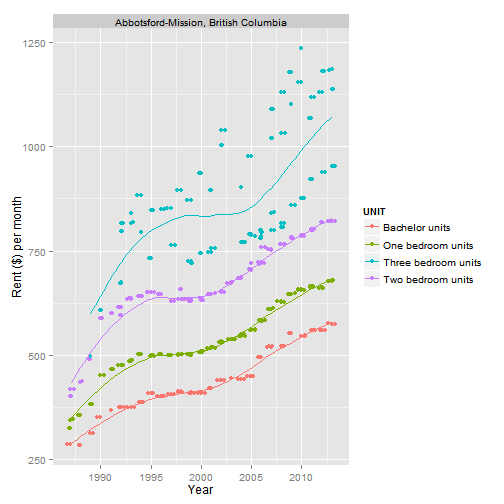
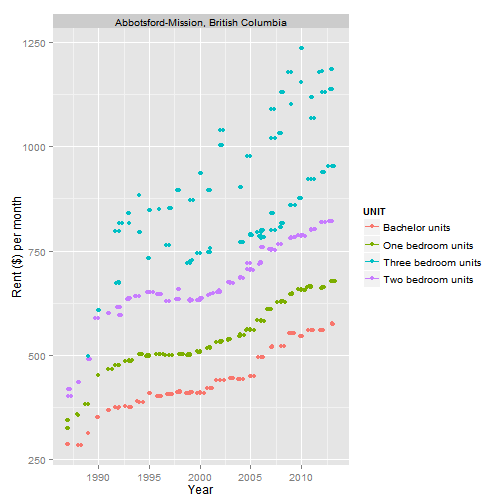
Final submission

diff --git a/loueh_pitch-rpubs.html b/loueh_pitch-rpubs.html
@@ -752,7 +752,7 @@ hljs.initHighlightingOnLoad();
 <h1>title: LOU-EH?</h1><p></p>
 
 <div class="column column1 slideContent" >
-<p><strong><em>Canadian Rental Apartement Comparasion</em></strong><br/>
+<p><strong><em>Canadian Rental Apartement Analysis Tool</em></strong><br/>
[1 lines of base64/hex data omitted]
 
 <p><em>[loo-ey] combination of the french verb &#39;loue&#39; (to rent) and the canadian expression &#39;eh?&#39;</em><em>[1]</em>*  </p>
@@ -765,6 +765,8 @@ hljs.initHighlightingOnLoad();
 
 <p>author: Ryan Eaton<br/>
 date: 2014-08-13   </p>
+
+<p style="position:absolute;bottom:10px;right:10px"> 1 of 5  </p>
 
 </div>
 
@@ -783,20 +785,22 @@ date: 2014-08-13   </p>
 <p><strong>Introduction:</strong><br/>
 Renting an apartment can represent a sizable portion of ones living expenses<strong>[2]</strong>. I have developed a shiny<strong>[3]</strong> application designed to allow users to compare rental costs via a scatterplot for various Canadian cities.  </p>
 
-<p>Additionnaly the application allows trend lines and certain filters to be added. and will allow the user to link directly to chosen city maps via google maps<strong>[4]</strong>.  Links to various social media options are provided to share the application. </p>
+<p>Additionnaly the application allows predictions to be generated for rental costs in future years. The user can also quickly find city maps via google maps<strong>[4]</strong>.  Links to various social media options are provided to share the application. </p>
+
+<p style="position:absolute;bottom:10px;right:10px"> 2 of 5  </p>
 
 </div>
 
 </section>
 <section data-transition="linear" data-transition-speed="default">
-<h3> </h3>
-<div class="column column1 slideContent" style="width: 13%;" >
+
+<div class="column column1 slideContent noTitle" style="width: 13%;" >
[1 lines of base64/hex data omitted]
 
 
 </div>
 
-<div class="column column2 slideContent" style="width: 83%;" >
+<div class="column column2 slideContent noTitle" style="width: 83%;" >
 
 
 <p><strong>Data:</strong> </p>
@@ -817,6 +821,8 @@ dim(d)
 <li><p>Cities with fewer that 50 data points and rental costs lower than 100$ were removed </p></li>
 </ul>
 
+<p style="position:absolute;bottom:10px;right:10px"> 3 of 5  </p>
+
 </div>
 
 </section>
@@ -835,7 +841,9 @@ dim(d)
 
 <hr/>
 
[2 lines of base64/hex data omitted]
+
+<p style="position:absolute;bottom:10px;right:10px"> 4 of 5  </p>
 
 </div>
 
@@ -861,6 +869,8 @@ dim(d)
 3.<a href="http://shiny.rstudio.com/">http://shiny.rstudio.com/</a><br/>
 4.<a href="http://en.wikipedia.org/wiki/Google_Maps">http://en.wikipedia.org/wiki/Google_Maps</a><br/>
 5.<a href="http://data.gc.ca">http://data.gc.ca</a>  </p>
+
+<p style="position:absolute;bottom:10px;right:10px"> 5 of 5  </p>
 
 </div>
 

diff --git a/loueh_pitch.md b/loueh_pitch.md
@@ -1,7 +1,7 @@
 title: LOU-EH?
 ========================================================
    
-***Canadian Rental Apartement Comparasion***   
+***Canadian Rental Apartement Analysis Tool***   
 ![alt text](loueh.png)        
   
   
@@ -10,6 +10,7 @@ title: LOU-EH?
     
 author: Ryan Eaton   
 date: 2014-08-13   
+<p style="position:absolute;bottom:10px;right:10px"> 1 of 5  </p>
 
 ========================================================
 left:15%
@@ -19,8 +20,10 @@ left:15%
 **Introduction:**  
 Renting an apartment can represent a sizable portion of ones living expenses**[2]**. I have developed a shiny**[3]** application designed to allow users to compare rental costs via a scatterplot for various Canadian cities.  
 
-Additionnaly the application allows trend lines and certain filters to be added. and will allow the user to link directly to chosen city maps via google maps**[4]**.  Links to various social media options are provided to share the application. 
- 
+Additionnaly the application allows predictions to be generated for rental costs in future years. The user can also quickly find city maps via google maps**[4]**.  Links to various social media options are provided to share the application. 
+
+<p style="position:absolute;bottom:10px;right:10px"> 2 of 5  </p>
+
 ========================================================
 left:15%
 ![alt text](loueh.png)
@@ -47,6 +50,7 @@ dim(d)
 
 
 
+<p style="position:absolute;bottom:10px;right:10px"> 3 of 5  </p>
 
 ========================================================
 left:15%
@@ -59,6 +63,8 @@ left:15%
 
 ***
 ![plot of chunk unnamed-chunk-5](loueh_pitch-figure/unnamed-chunk-5.png) 
+
+<p style="position:absolute;bottom:10px;right:10px"> 4 of 5  </p>
 
 ========================================================
 left:15%
@@ -75,3 +81,4 @@ This application could help people in various situations, whether renting their 
 3.http://shiny.rstudio.com/  
 4.http://en.wikipedia.org/wiki/Google_Maps  
 5.http://data.gc.ca  
+<p style="position:absolute;bottom:10px;right:10px"> 5 of 5  </p>
